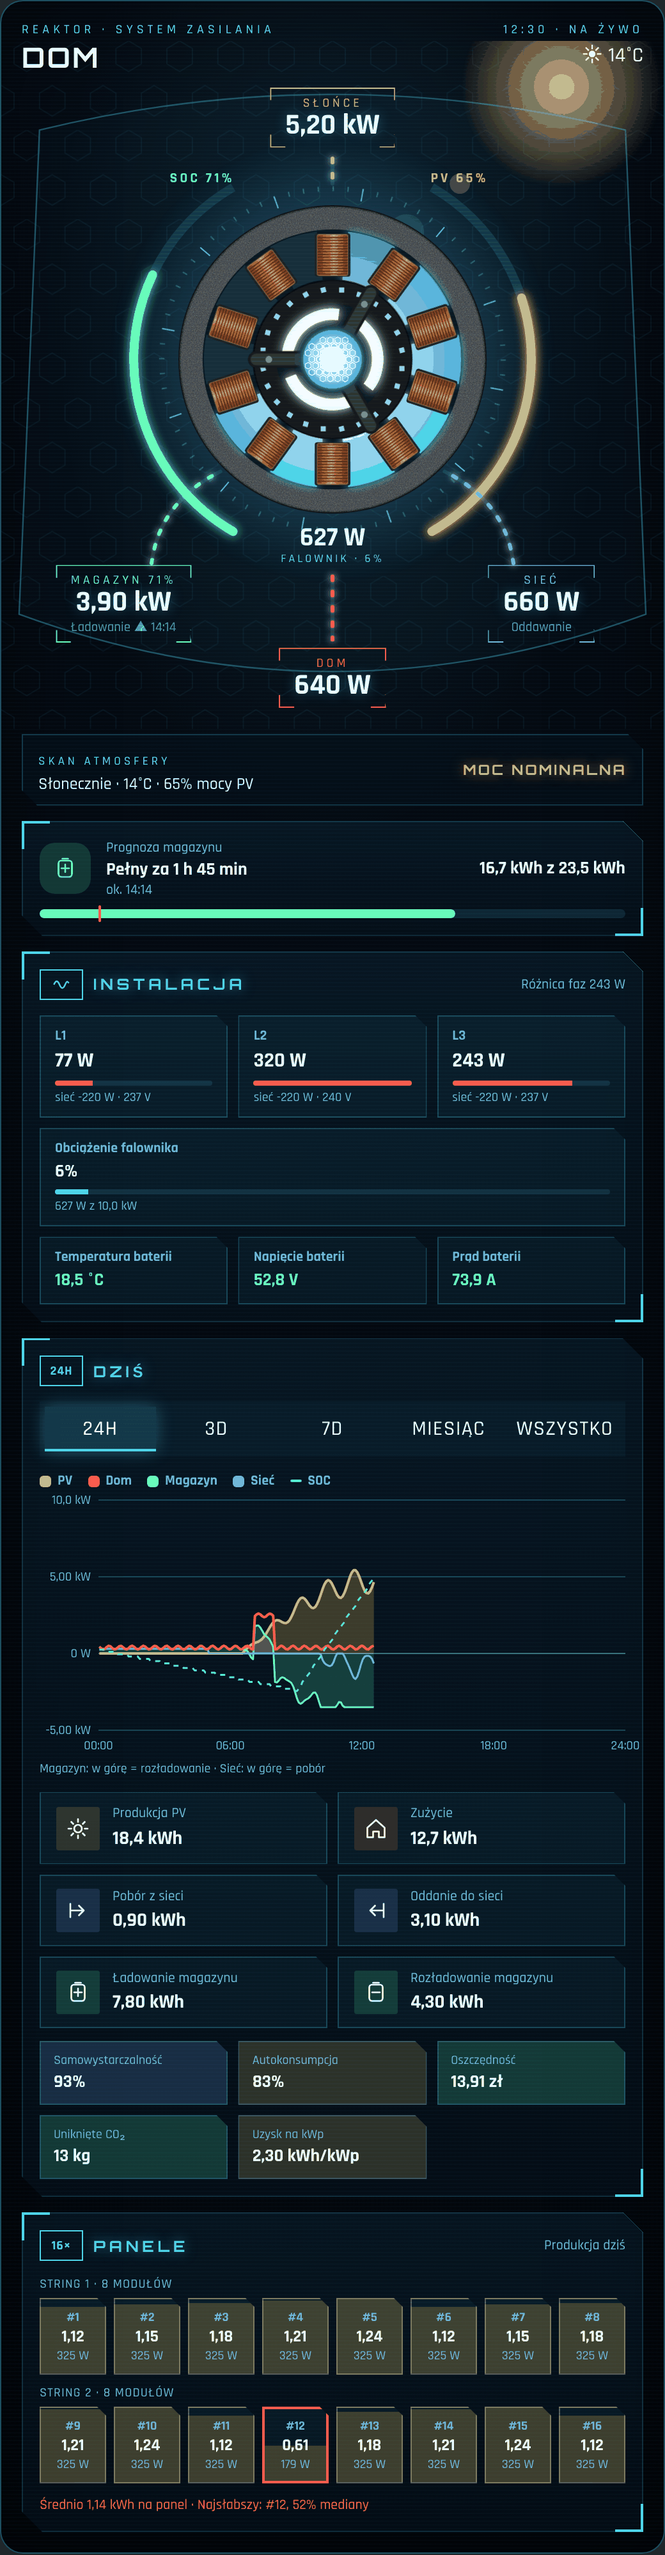
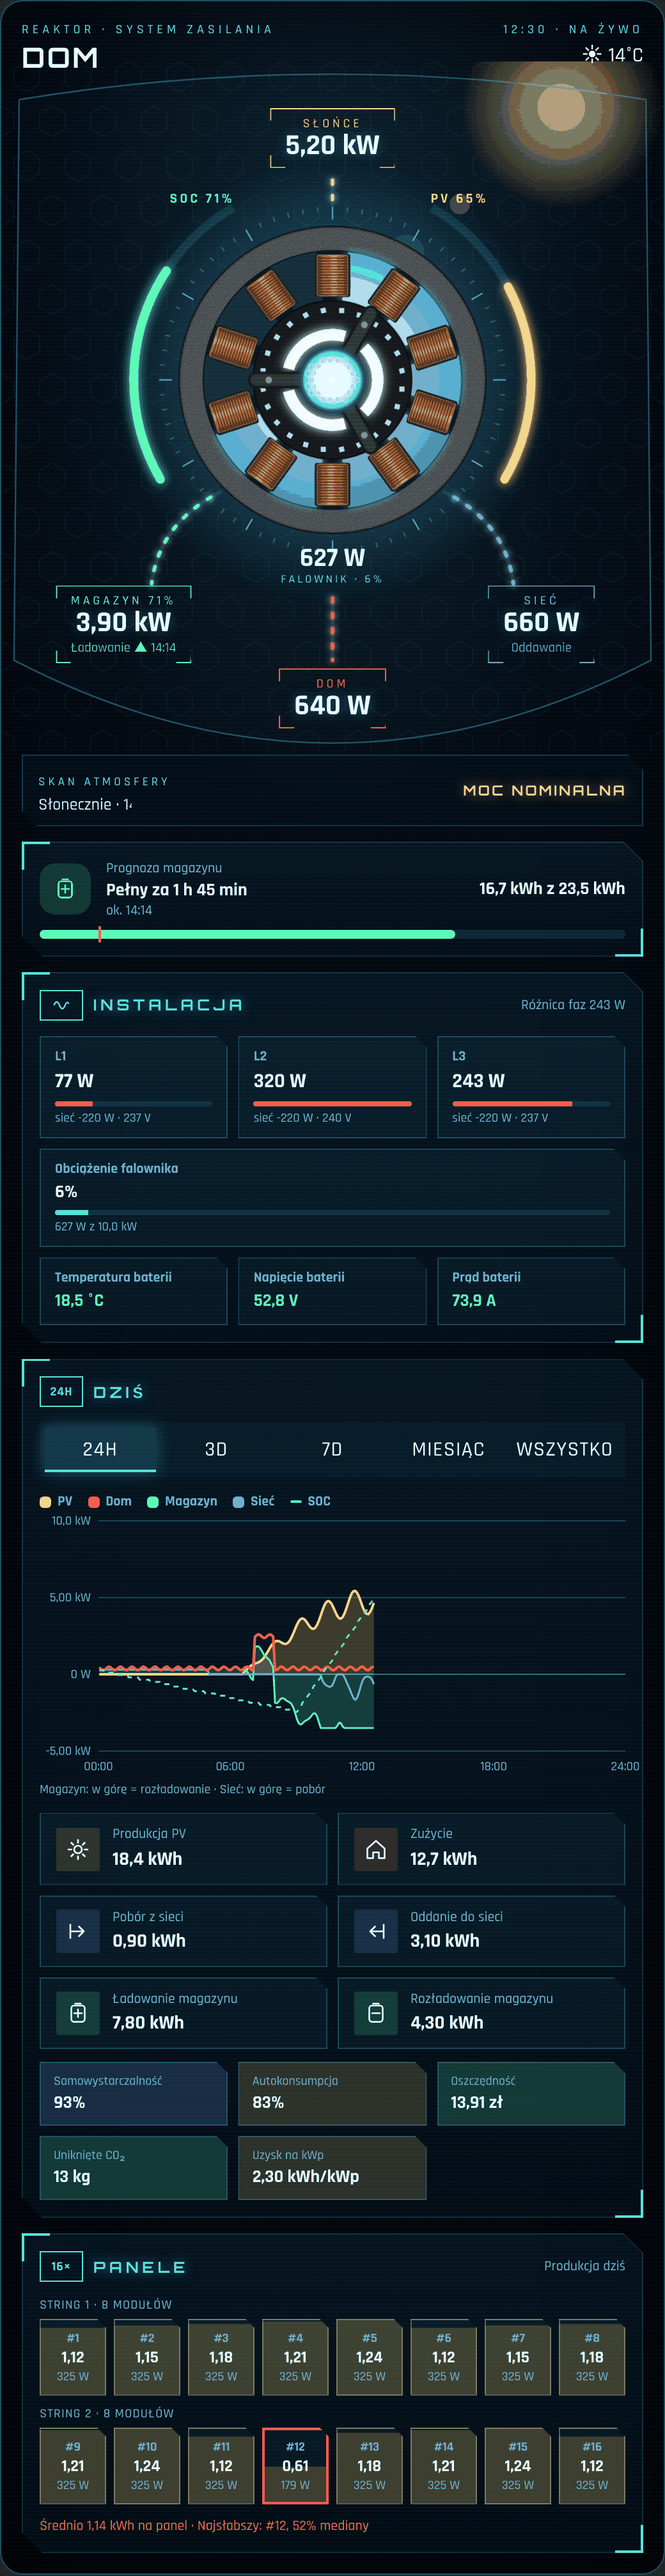
1.4.0-beta.5: larger Reactor visor frame around the readouts
Claude-Session: https://claude.ai/code/session_0152SgGeW2oeSktbBVvrriod

diff --git a/solar-flow-card.js b/solar-flow-card.js
@@ -7,7 +7,7 @@
  * Built from src/*.js by scripts/build.mjs. Edit the sources, not this file.
  */
 (() => {
-const CARD_VERSION = "1.4.0-beta.4";
+const CARD_VERSION = "1.4.0-beta.5";
 const CARD_TAG = "solar-flow-card";
 const EDITOR_TAG = "solar-flow-card-editor";
 const THEMES = ["diorama", "aurora", "paper", "lcars", "atlantis", "expanse", "foundation", "galaxy", "gate", "reactor"];
@@ -3512,7 +3512,7 @@ function renderReactor(m) {
           </defs>
           ${sky.sky}
           <rect width="520" height="540" fill="url(#rx-hex)"/>
-          <path class="rx-frame" pathLength="1" d="M30 70Q260 14 490 70L506 450Q260 540 14 450Z"/>
+          <path class="rx-frame" pathLength="1" d="M14 30Q260 -10 506 30L510 470Q260 600 10 470Z"/>
           <g class="rx-boot-ticks"><g class="rx-ticks">${ticks}</g></g>
           ${/* The gauges stop above the battery and grid flow lines. */ ""}
           ${config.showBattery ? `<path class="rx-track" d="${arc(156, 330, 240)}"/>${soc >= 1 ? `<path class="rx-gauge battery" pathLength="1" d="${arc(156, 240, 240 + 0.9 * soc)}"/>` : ""}` : ""}
@@ -4443,7 +4443,7 @@ const THEME_CSS = {
     .rx-right { text-align: right; }
     .rx-wx { margin-top: 3px; padding: 0; border: 0; background: none; color: #ffd27a; font: 600 13px var(--sfc-font); cursor: pointer; }
     .night .rx-wx { color: #9cc8ff; }
-    .rx-visor { position: relative; aspect-ratio: 520 / 540; margin: -26px -16px 0; }
+    .rx-visor { position: relative; aspect-ratio: 520 / 540; margin: -10px -16px 0; }
     .rx-visor > svg { position: absolute; inset: 0; width: 100%; height: 100%; }
     .rx-frame { fill: rgba(79,216,255,.025); stroke: rgba(79,216,255,.35); stroke-width: 1.2; }
     .rx-ticks { stroke: #4fd8ff; stroke-width: 1; transform-box: view-box; transform-origin: 260px 250px; animation: rx-spin var(--spin, 60s) linear infinite; animation-delay: var(--p-spin, 0s); }

diff --git a/src/60-styles.js b/src/60-styles.js
@@ -883,7 +883,7 @@ const THEME_CSS = {
     .rx-right { text-align: right; }
     .rx-wx { margin-top: 3px; padding: 0; border: 0; background: none; color: #ffd27a; font: 600 13px var(--sfc-font); cursor: pointer; }
     .night .rx-wx { color: #9cc8ff; }
-    .rx-visor { position: relative; aspect-ratio: 520 / 540; margin: -26px -16px 0; }
+    .rx-visor { position: relative; aspect-ratio: 520 / 540; margin: -10px -16px 0; }
     .rx-visor > svg { position: absolute; inset: 0; width: 100%; height: 100%; }
     .rx-frame { fill: rgba(79,216,255,.025); stroke: rgba(79,216,255,.35); stroke-width: 1.2; }
     .rx-ticks { stroke: #4fd8ff; stroke-width: 1; transform-box: view-box; transform-origin: 260px 250px; animation: rx-spin var(--spin, 60s) linear infinite; animation-delay: var(--p-spin, 0s); }

diff --git a/src/50-themes.js b/src/50-themes.js
@@ -1222,7 +1222,7 @@ function renderReactor(m) {
           </defs>
           ${sky.sky}
           <rect width="520" height="540" fill="url(#rx-hex)"/>
-          <path class="rx-frame" pathLength="1" d="M30 70Q260 14 490 70L506 450Q260 540 14 450Z"/>
+          <path class="rx-frame" pathLength="1" d="M14 30Q260 -10 506 30L510 470Q260 600 10 470Z"/>
           <g class="rx-boot-ticks"><g class="rx-ticks">${ticks}</g></g>
           ${/* The gauges stop above the battery and grid flow lines. */ ""}
           ${config.showBattery ? `<path class="rx-track" d="${arc(156, 330, 240)}"/>${soc >= 1 ? `<path class="rx-gauge battery" pathLength="1" d="${arc(156, 240, 240 + 0.9 * soc)}"/>` : ""}` : ""}

diff --git a/src/00-header.js b/src/00-header.js
@@ -6,7 +6,7 @@
  *
  * Built from src/*.js by scripts/build.mjs. Edit the sources, not this file.
  */
-const CARD_VERSION = "1.4.0-beta.4";
+const CARD_VERSION = "1.4.0-beta.5";
 const CARD_TAG = "solar-flow-card";
 const EDITOR_TAG = "solar-flow-card-editor";
 const THEMES = ["diorama", "aurora", "paper", "lcars", "atlantis", "expanse", "foundation", "galaxy", "gate", "reactor"];

diff --git a/CHANGELOG.md b/CHANGELOG.md
@@ -1,5 +1,9 @@
 # Changelog
 
+## 1.4.0-beta.5
+
+- Reactor: a larger visor frame, so it no longer cuts through the sun, battery, grid and home readouts.
+
 ## 1.4.0-beta.4
 
 - Reactor: the battery and solar gauges end above the battery and grid flow lines instead of crossing them.
